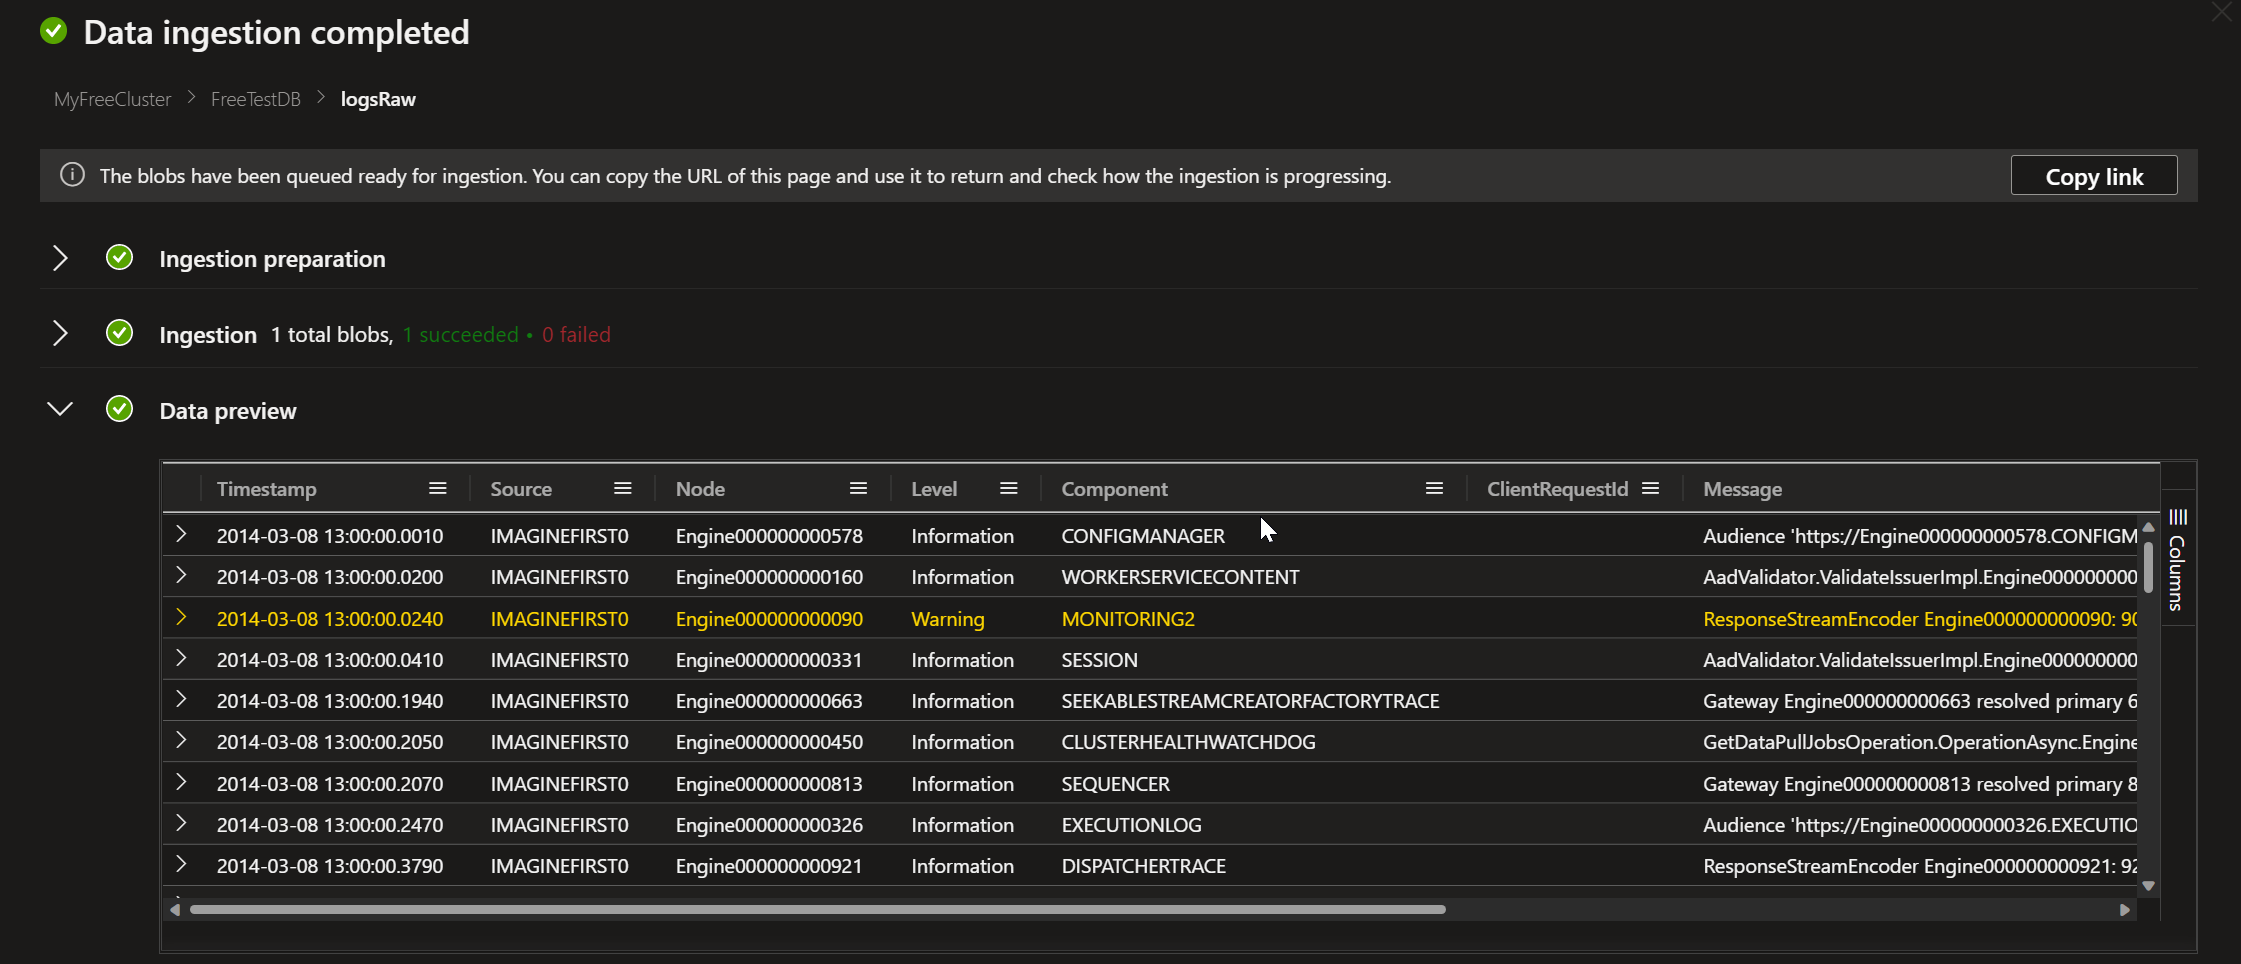
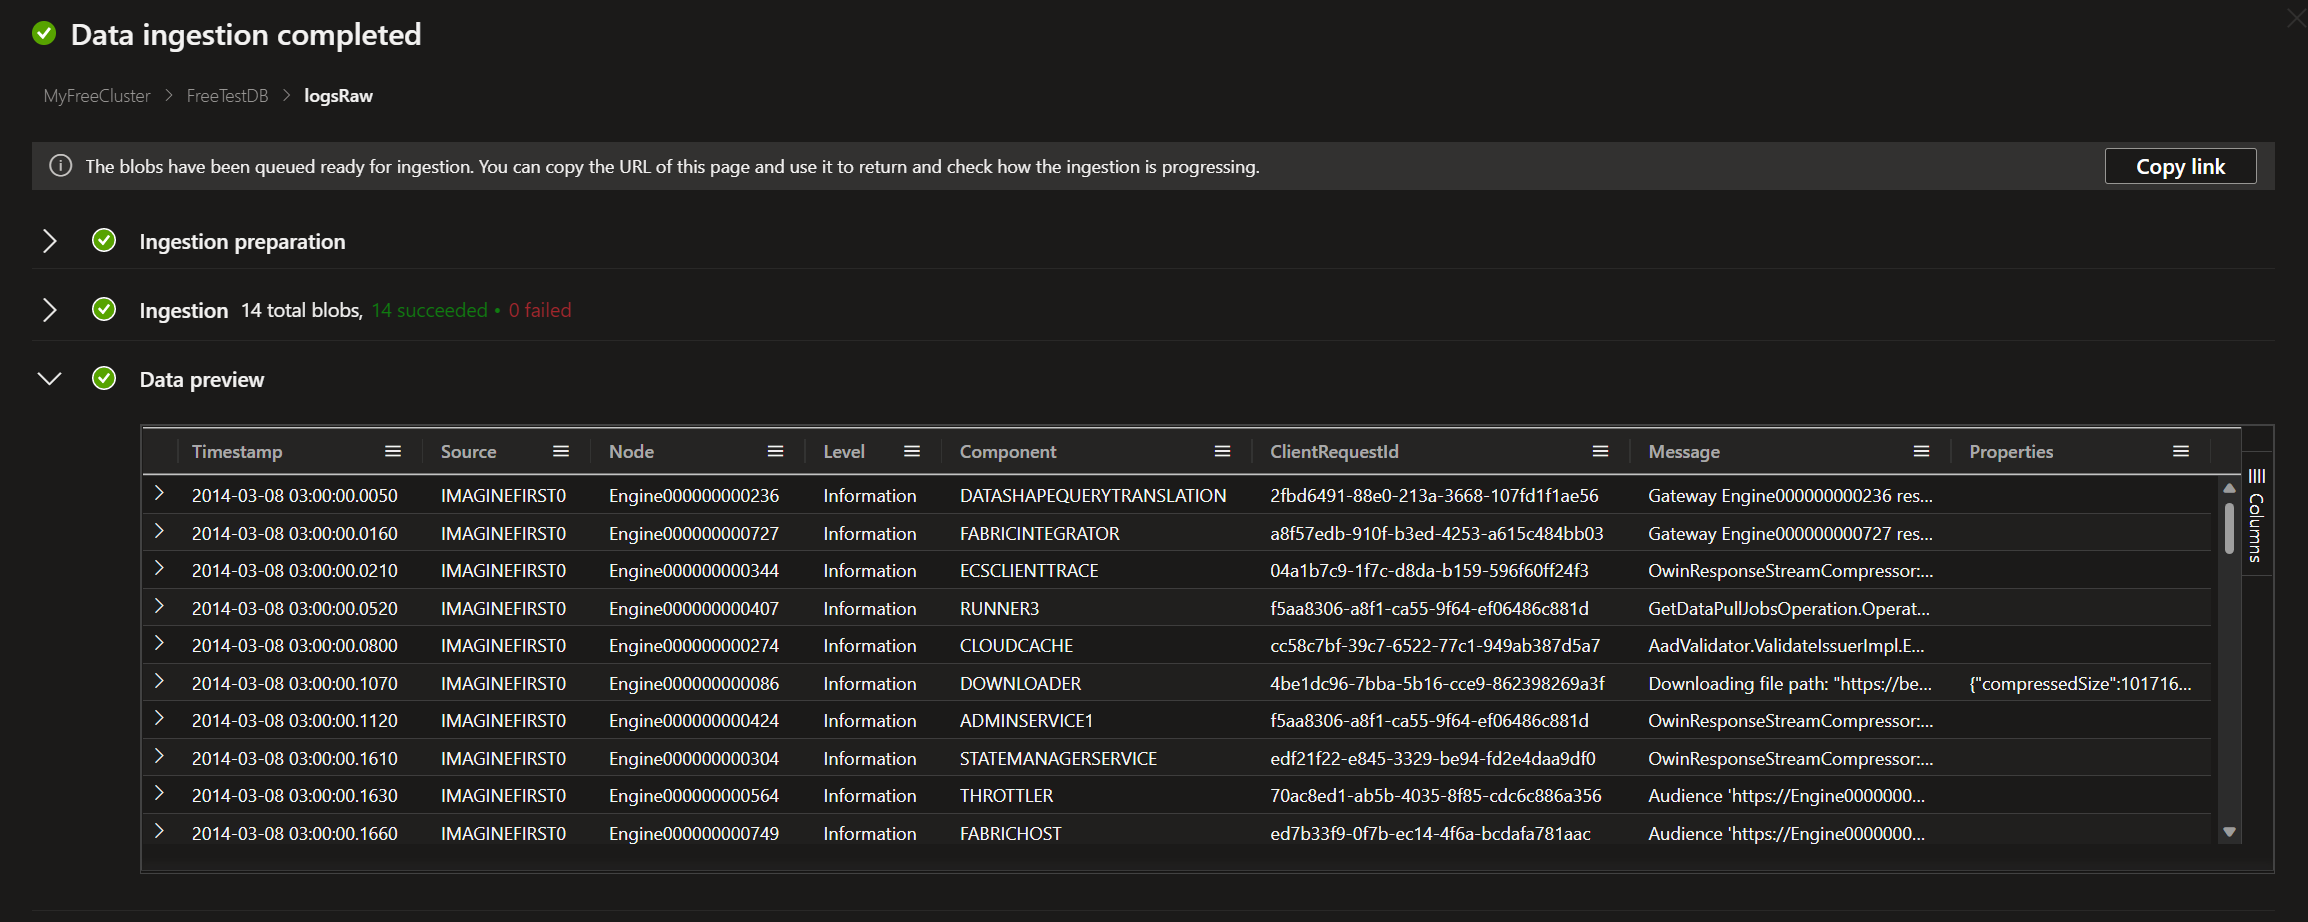
telemetry logs content

diff --git a/README.md b/README.md
@@ -13,7 +13,12 @@ Each challenge has a set of tasks that need to be completed in order to move on 
 ---
 Earn a digital badge! In order to receive the "ADX In a Day" digital badge, you will need to complete the tasks marked with 🎓. Please submit the KQL queries/commands of these tasks in the following link: [Answer sheet - ADX Lab 1](https://forms.office.com/r/3V7yjXwAMD)
 
-<img src="/assets/images/Badge_Transparent.png" width="200">
+<img style="display: block; 
+           margin-left: auto;
+           margin-right: auto;
+           width: 30%;"
+           src="/assets/images/badge_transparent.png" width="100">
+</img>
 
 ---
 ---
@@ -34,18 +39,18 @@ In this Challenge, you will create a Free cluster and a database. You will run s
 Create your free cluster here: https://aka.ms/kustofree
 
 **Note**: The below screenshot is just an example 
-![Screen capture 1](/assets/images/onboarding-kusto-free.png)
+![Screen capture 1](/assets/images/onboarding_kusto_free.png)
 
 A Free cluster home page is added to Myclusters pane in UI
-![Screen capture 1](/assets/images/Free-cluster-page.png)
   
 #### Task 2: Create a database in the free cluster
 To create database, once the free cluster is created, you can use the "Create" button in the Create database window 
 
-![Screen capture 1](/assets/images/Free-cluster-create-DB.png)
+![Screen capture 1](/assets/images/free_cluster_create_db.png)
 
 In the next page, enter the database name you want to use and click 'Next: Create Database"
-![Screen capture 1](/assets/images/Free-cluster-create-DB1.png)
+
+![Screen capture 1](/assets/images/free_cluster_create_db1.png)
 
   
 ---
@@ -57,12 +62,12 @@ In the next page, enter the database name you want to use and click 'Next: Creat
   In this example, you'll use the Azure Data Explorer web interface as a query editor (Kusto Query Language can also be used in Azure Monitor Logs, Azure Sentinel, and other services that are built on-top of Azure Data Explorer.)
   
   We can see our cluster and the database that we created.
-  To run KQL queries, you must select the query button on the Free Cluster page. <br>
-  ![Screen capture 1](/assets/images/Free-cluster-query.png)
+  To run KQL queries, you must select the **Query** button on the Free Cluster page. <br>
+  ![Screen capture 1](/assets/images/free_cluster_query.png)
   Now – you can write a simple KQL query: print ("hello world"),
   and hit the “Run” button. The query will be executed and its result can be seen in the result grid on the bottom of the page. 
   
-  ![Screen capture 1](/assets/images/Free-cluster-helloworld.png)
+  ![Screen capture 1](/assets/images/hello_world.png)
   
   Windows users can also download [Kusto Explorer](https://docs.microsoft.com/en-us/azure/data-explorer/kusto/tools/kusto-explorer), a desktop client to run queries and benefit from advanced features available in the client.
 
@@ -74,80 +79,44 @@ In the next page, enter the database name you want to use and click 'Next: Creat
   ADX supports several ingestion methods. [These methods include ingestion tools, connectors and plugins, managed pipelines, programmatic ingestion using SDKs, and direct access to ingestion.]
 
   **Expected Learning Outcomes:**
-  - Ingest from Storage using .ingest control commands
-  - Ingest data using one-click ingestion from Azure Blob Storage(or local files) to your ADX cluster.
+  - Ingest data using one-click ingestion from Azure Blob Storage to your ADX cluster.
   
 ---
-#### Task 1: Create table and ingest data 
-Execute the below database script to
-  - Create a table - logsRaw
-  - Set retention policy to 100 years (Deeper learning in Lab 2 Challenge 6)
-  - Load data using .ingest commands from storage account
-
+#### Task 1: create the raw table - logsRaw
+Run the following command to create our table
 ```
-.execute database script with (ContinueOnErrors=true) <|
-//
-// Create raw table with defined schema
-//
 .create-merge table logsRaw(Timestamp:datetime, Source:string, Node:string, Level:string, Component:string, ClientRequestId:string, Message:string, Properties:dynamic) 
-//
-// Retention policy
-.alter-merge table logsRaw policy retention softdelete = 36500d recoverability = enabled
-//
-// Load data- On free cluster, it will take about 20 seconds; 
-.ingest async into table logsRaw (h'https://logsbenchmark00.blob.core.windows.net/logsbenchmark-onegb/2014/03/08/00/data.csv.gz?sp=rl&st=2022-08-18T00:00:00Z&se=2030-01-01T00:00:00Z&spr=https&sv=2021-06-08&sr=c&sig=5pjOow5An3%2BTs5mZ%2FyosJBPtDvV7%2FXfDO8pLEeeylVc%3D') with (format='csv', creationTime='2014-03-08T00:00:00Z')
-.ingest async into table logsRaw (h'https://logsbenchmark00.blob.core.windows.net/logsbenchmark-onegb/2014/03/08/01/data.csv.gz?sp=rl&st=2022-08-18T00:00:00Z&se=2030-01-01T00:00:00Z&spr=https&sv=2021-06-08&sr=c&sig=5pjOow5An3%2BTs5mZ%2FyosJBPtDvV7%2FXfDO8pLEeeylVc%3D') with (format='csv', creationTime='2014-03-08T01:00:00Z')
-.ingest async into table logsRaw (h'https://logsbenchmark00.blob.core.windows.net/logsbenchmark-onegb/2014/03/08/02/data.csv.gz?sp=rl&st=2022-08-18T00:00:00Z&se=2030-01-01T00:00:00Z&spr=https&sv=2021-06-08&sr=c&sig=5pjOow5An3%2BTs5mZ%2FyosJBPtDvV7%2FXfDO8pLEeeylVc%3D') with (format='csv', creationTime='2014-03-08T02:00:00Z')
-.ingest async into table logsRaw (h'https://logsbenchmark00.blob.core.windows.net/logsbenchmark-onegb/2014/03/08/03/data.csv.gz?sp=rl&st=2022-08-18T00:00:00Z&se=2030-01-01T00:00:00Z&spr=https&sv=2021-06-08&sr=c&sig=5pjOow5An3%2BTs5mZ%2FyosJBPtDvV7%2FXfDO8pLEeeylVc%3D') with (format='csv', creationTime='2014-03-08T03:00:00Z')
-.ingest async into table logsRaw (h'https://logsbenchmark00.blob.core.windows.net/logsbenchmark-onegb/2014/03/08/04/data.csv.gz?sp=rl&st=2022-08-18T00:00:00Z&se=2030-01-01T00:00:00Z&spr=https&sv=2021-06-08&sr=c&sig=5pjOow5An3%2BTs5mZ%2FyosJBPtDvV7%2FXfDO8pLEeeylVc%3D') with (format='csv', creationTime='2014-03-08T04:00:00Z')
-.ingest       into table logsRaw (h'https://logsbenchmark00.blob.core.windows.net/logsbenchmark-onegb/2014/03/08/05/data.csv.gz?sp=rl&st=2022-08-18T00:00:00Z&se=2030-01-01T00:00:00Z&spr=https&sv=2021-06-08&sr=c&sig=5pjOow5An3%2BTs5mZ%2FyosJBPtDvV7%2FXfDO8pLEeeylVc%3D') with (format='csv', creationTime='2014-03-08T05:00:00Z')
-.ingest async into table logsRaw (h'https://logsbenchmark00.blob.core.windows.net/logsbenchmark-onegb/2014/03/08/06/data.csv.gz?sp=rl&st=2022-08-18T00:00:00Z&se=2030-01-01T00:00:00Z&spr=https&sv=2021-06-08&sr=c&sig=5pjOow5An3%2BTs5mZ%2FyosJBPtDvV7%2FXfDO8pLEeeylVc%3D') with (format='csv', creationTime='2014-03-08T06:00:00Z')
-.ingest async into table logsRaw (h'https://logsbenchmark00.blob.core.windows.net/logsbenchmark-onegb/2014/03/08/07/data.csv.gz?sp=rl&st=2022-08-18T00:00:00Z&se=2030-01-01T00:00:00Z&spr=https&sv=2021-06-08&sr=c&sig=5pjOow5An3%2BTs5mZ%2FyosJBPtDvV7%2FXfDO8pLEeeylVc%3D') with (format='csv', creationTime='2014-03-08T07:00:00Z')
-.ingest async into table logsRaw (h'https://logsbenchmark00.blob.core.windows.net/logsbenchmark-onegb/2014/03/08/08/data.csv.gz?sp=rl&st=2022-08-18T00:00:00Z&se=2030-01-01T00:00:00Z&spr=https&sv=2021-06-08&sr=c&sig=5pjOow5An3%2BTs5mZ%2FyosJBPtDvV7%2FXfDO8pLEeeylVc%3D') with (format='csv', creationTime='2014-03-08T08:00:00Z')
-.ingest async into table logsRaw (h'https://logsbenchmark00.blob.core.windows.net/logsbenchmark-onegb/2014/03/08/09/data.csv.gz?sp=rl&st=2022-08-18T00:00:00Z&se=2030-01-01T00:00:00Z&spr=https&sv=2021-06-08&sr=c&sig=5pjOow5An3%2BTs5mZ%2FyosJBPtDvV7%2FXfDO8pLEeeylVc%3D') with (format='csv', creationTime='2014-03-08T09:00:00Z')
-.ingest async into table logsRaw (h'https://logsbenchmark00.blob.core.windows.net/logsbenchmark-onegb/2014/03/08/10/data.csv.gz?sp=rl&st=2022-08-18T00:00:00Z&se=2030-01-01T00:00:00Z&spr=https&sv=2021-06-08&sr=c&sig=5pjOow5An3%2BTs5mZ%2FyosJBPtDvV7%2FXfDO8pLEeeylVc%3D') with (format='csv', creationTime='2014-03-08T10:00:00Z')
-.ingest       into table logsRaw (h'https://logsbenchmark00.blob.core.windows.net/logsbenchmark-onegb/2014/03/08/11/data.csv.gz?sp=rl&st=2022-08-18T00:00:00Z&se=2030-01-01T00:00:00Z&spr=https&sv=2021-06-08&sr=c&sig=5pjOow5An3%2BTs5mZ%2FyosJBPtDvV7%2FXfDO8pLEeeylVc%3D') with (format='csv', creationTime='2014-03-08T11:00:00Z')
-.ingest async into table logsRaw (h'https://logsbenchmark00.blob.core.windows.net/logsbenchmark-onegb/2014/03/08/12/data.csv.gz?sp=rl&st=2022-08-18T00:00:00Z&se=2030-01-01T00:00:00Z&spr=https&sv=2021-06-08&sr=c&sig=5pjOow5An3%2BTs5mZ%2FyosJBPtDvV7%2FXfDO8pLEeeylVc%3D') with (format='csv', creationTime='2014-03-08T12:00:00Z')
-.ingest async into table logsRaw (h'https://logsbenchmark00.blob.core.windows.net/logsbenchmark-onegb/2014/03/08/13/data.csv.gz?sp=rl&st=2022-08-18T00:00:00Z&se=2030-01-01T00:00:00Z&spr=https&sv=2021-06-08&sr=c&sig=5pjOow5An3%2BTs5mZ%2FyosJBPtDvV7%2FXfDO8pLEeeylVc%3D') with (format='csv', creationTime='2014-03-08T13:00:00Z')
-```
 
----
-#### Task 1: Use the “One-click” UI (User Interfaces) to create a data connection to Azure blob storage
-  For the best user experience, we will use the Azure Data Explorer Web UI (aka: Kusto web Explorer/KWE). To open it, click "Query" in Free cluster page by going to [Kusto Web Explorer](https://dataexplorer.azure.com/freecluster).The web UI opens. 
+```
+#### Task 2: Use the “One-click” UI (User Interface) to create a data connection to Azure blob storage
+  For the best user experience, we will use the Azure Data Explorer Web UI (aka: Kusto web Explorer/KWE). To open it, go to [Kusto Web Explorer](https://dataexplorer.azure.com/freecluster).The web UI opens. 
   
-  We will ingest one dataset from an Azure Storage account. </br>
-  1 csv.gz files are avaialble for download in 'Data' folder in this github page.  </br> 
+  Select **Ingest** button on the Free Cluster Page
   
-  Go to the “Data management” tab, and select **Ingest data**
-  
-  ![Screen capture 1](/assets/images/Free-cluster-Ingestdata.png)
+  ![Screen capture 1](/assets/images/ingest_data.png)
   
   Make sure the cluster and the Database fields are correct. Select **New table**
   
   **Note**: We used an example table name as 'logsRaw' here. You can give any name to your table but be sure to use it in all your queries going forward.
 
-  ![Screen capture 1](/assets/images/IngestTable.png)
-
-  **Note**: If you do not have a storage account, follow the "Ingest from File" section below. Otherwise, follow the "Ingest from Storage" section.
-
-  **Ingest from File**: Select "File" as the source type in Ingest data window. Browse your system for the already downloaded Logistics_telemetry_Historical files
-
-  <img src="/assets/images/IngestFromFile.png" width="400">
+  ![Screen capture 1](/assets/images/ingest_table.png)
   
-  **Ingest from Storage**: Select "Blob container" as the source type in Ingest data window. In the **Link to source**, paste the SAS URL of the blob container. To get the SAS URL of the blob container, go to this storage account in the Azure portal. Once you're on the storage account page, go to the "Containers" menu and right-click on the container where you uploaded the 3 data files. Click "Generate SAS". A side pane opens. In the "permissions" dropdown, add "list" along with "read". Click "Generate SAS token and URL" and copy the "Blob SAS URL".
+  **Ingest from Storage**: Select "Blob container" as the source type in Ingest data window. In the **Link to source**, paste the following SAS URL.
+```
+https://logsbenchmark00.blob.core.windows.net/logsbenchmark-onegb/2014/?sp=rl&st=2022-08-18T00:00:00Z&se=2030-01-01T00:00:00Z&spr=https&sv=2021-06-08&sr=c&sig=5pjOow5An3%2BTs5mZ%2FyosJBPtDvV7%2FXfDO8pLEeeylVc%3D
+``` 
 
-  Go back to the ADX “One-click” UI. Paste the SAS URL and select one of the **Schema defining file** that start with "export_" (not all the files in that blob storage have the same schema) and click **Next**
+ Select one of the **Schema defining file** (one is autoselected unless you want to change that) and click **Next**
  
-  
-  ![Screen capture 1](/assets/images/IngestFromStorage.png)
+  ![Screen capture 1](/assets/images/ingest_from_storage.png)
   
   Make sure you use the **CSV Data format**
   
-  ![Screen capture 1](/assets/images/IngestFromStorage_schema.png)
+  ![Screen capture 1](/assets/images/ingest_from_storage_schema.png)
   
   Wait for the ingestion to be completed. For production modes, you could use Azure Event Grid for continuous Blob ingestion. The **Event Grid** link under **Continuous Ingestion** will create the Event Grid resource for that. We won't use this option in this Lab.
 
-   <img src="/assets/images/Ingestion-Complete.png" width="520">
+  ![Screen capture 1](/assets/images/ingestion_complete.png)
   
   Verify that data was ingested to the table. logsRaw table should have 3834012 records
 
@@ -183,9 +152,28 @@ logsRaw
 This query has a single tabular expression statement. The statement begins with a reference to the table githubraw and contains the operators where and count. Each operator is separated by a pipe. The data rows for the source table are filtered by the value of the Type column. In the last line, the query returns a table with a single column and a single row that contains the count of the remaining rows.
 
 References:
-- [SQL to Kusto cheat sheet](https://docs.microsoft.com/en-us/azure/data-explorer/kusto/query/sqlcheatsheet)
 - [KQL cheat sheets](https://github.com/marcusbakker/KQL/blob/master/kql_cheat_sheet.pdf)
 
+---
+#### Task 0 : The SQL Way!
+For all the SQL pros out there, Azure data explorer allows a subset of TSQL queries. Try running the following SQL query in web UI
+```
+select count(1) from logsRaw
+```
+With a growth mindset, ADX also supports translation of SQL to KQL using 'explain' operator.
+
+```
+explain select max(Timestamp) as MaxTimestamp from logsRaw where Level='Error'
+```
+Output of the above query will be a corresponsing KQL query
+```
+logsRaw
+| where (Level == "Error")
+| summarize MaxTimestamp=max(Timestamp)
+| project MaxTimestamp
+```
+References:
+- [SQL to KQL cheat sheets](https://learn.microsoft.com/en-us/azure/data-explorer/kusto/query/sqlcheatsheet)
 ---
 #### Task 1: Basic KQL queries - explore the data
   
@@ -228,7 +216,7 @@ Write a query to get the schema of the table.
 Hint: Observe there are 2 new columns originalSize and compressedSize with datatype 'long'
 
 Example result:  
-<img src="/assets/images/Schema.png" width="400">
+![Screen capture 1](/assets/images/schema.png)
 
 [extend operator](https://docs.microsoft.com/en-us/azure/data-explorer/kusto/query/extendoperator)
 
@@ -239,8 +227,8 @@ Example result:
 #### Task 3: Keep the columns of your interest 🎓
 Write a query to get only specific desired columns: Timestamp, ClientRequestId, Level, Message. Take arbitrary 10 records.
 
-Example result:</br>
-<img src="/assets/images/project.png" width="400">
+Example result:
+![Screen capture 1](/assets/images/project.png)
 
 [project-away operator - Azure Data Explorer | Microsoft Docs](https://docs.microsoft.com/en-us/azure/data-explorer/kusto/query/projectawayoperator)
 
@@ -321,11 +309,11 @@ Example result:<br>
 There are many keyboard shortcuts available in ADX Web UI and Kusto Explorer to increase productivity while working with KQL.
 Below are a few examples
 - You don't have to select a block of code. Based on current cursor position, code that is separated by empty lines is considered a single block of code.<br>
-<img src="/assets/images/codeBlock.png" width="650">
+<img src="/assets/images/code_block.png" width="650">
 
 - You can execute a block of code using Shift+Enter
 - You can directly insert filters based on data cells selections using Ctrl+Shift+Space <br>
-<img src="/assets/images/AddasFilters.png" width="650">
+<img src="/assets/images/add_as_filters.png" width="650">
 
 [Kusto Web UI shortcuts | Microsoft Docs](https://learn.microsoft.com/en-us/azure/data-explorer/web-ui-query-keyboard-shortcuts)
 
